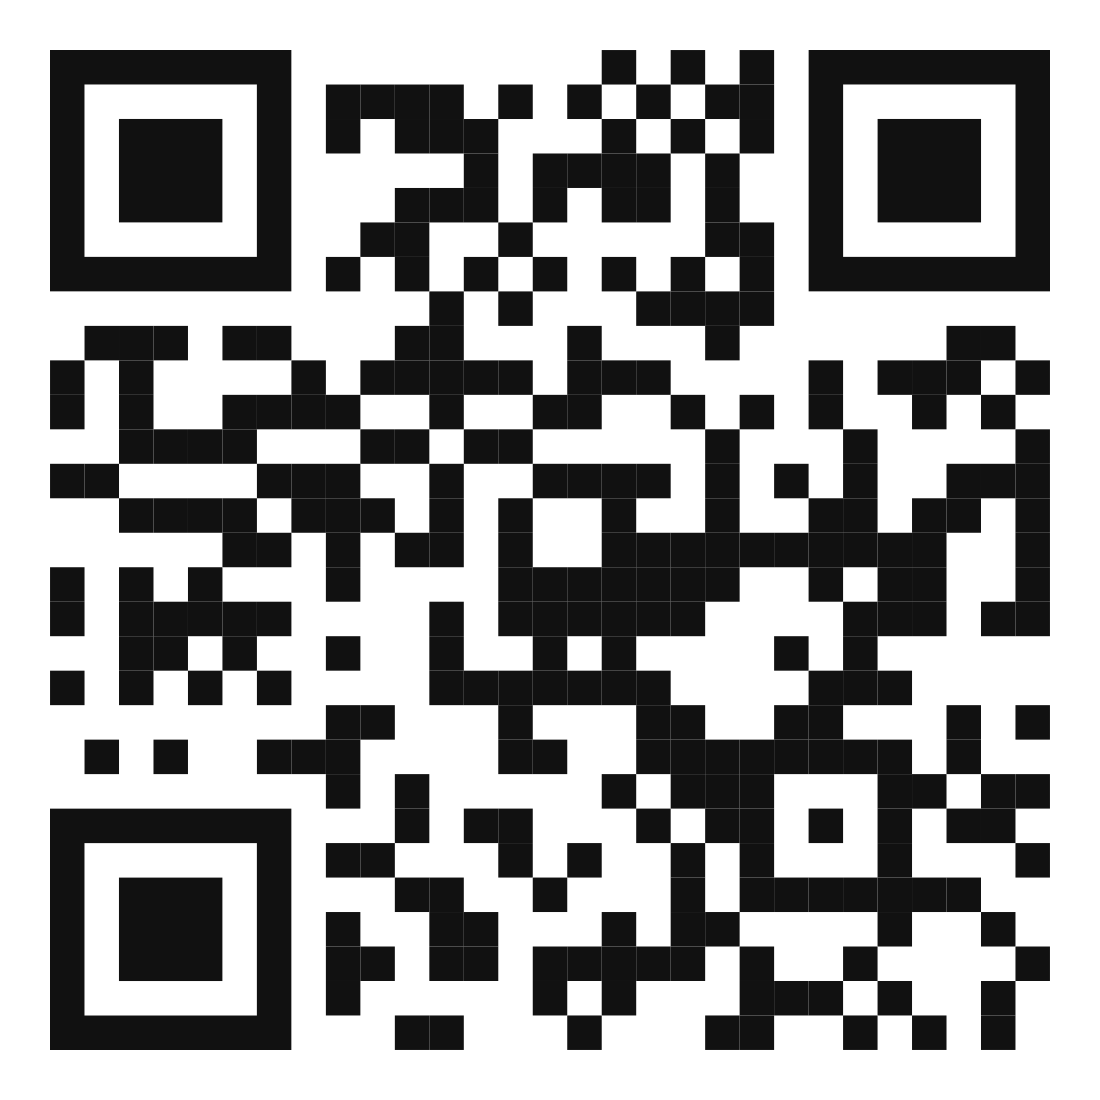
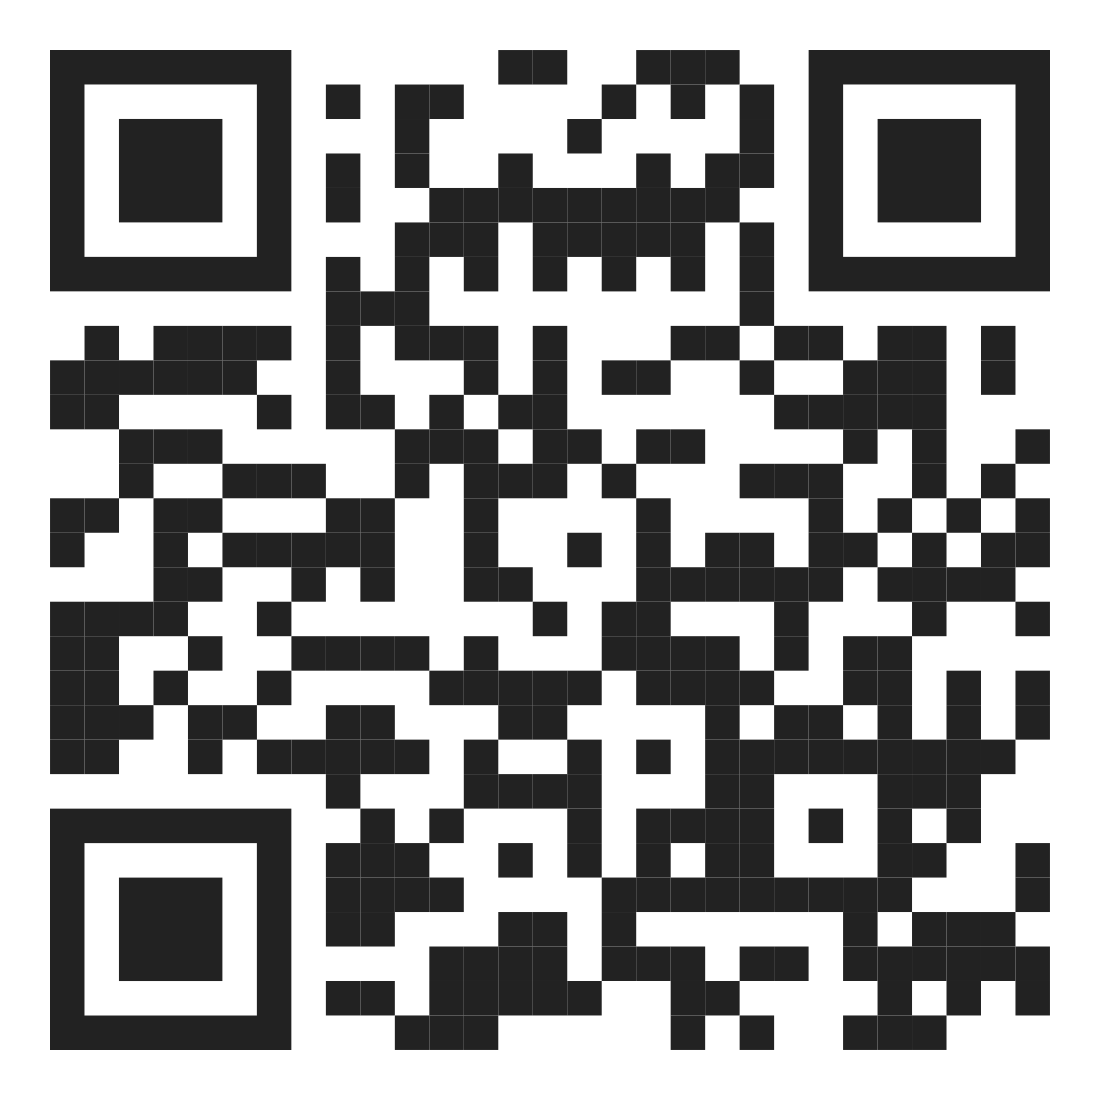
Change qr code

Changed region(s): [[0.0309, 0.0309, 0.9582, 0.9582], [0.9273, 0.4018, 0.9582, 0.4636]]

diff --git a/latest.tex b/latest.tex
@@ -119,7 +119,7 @@
 \begin{document}
 %----------HEADING----------
 \begin{tikzpicture}[overlay, remember picture]
-	\node[xshift=-10mm,yshift=-10mm] at (current page.north east) {\href{https://qrd.by/kd18mo}{\includegraphics[height=35px]{qr-code.png}}};
+	\node[xshift=-10mm,yshift=-10mm] at (current page.north east) {\href{https://scanqr.to/ab08e949}{\includegraphics[height=35px]{qr-code.png}}};
 \end{tikzpicture}
 
 \begin{center}
